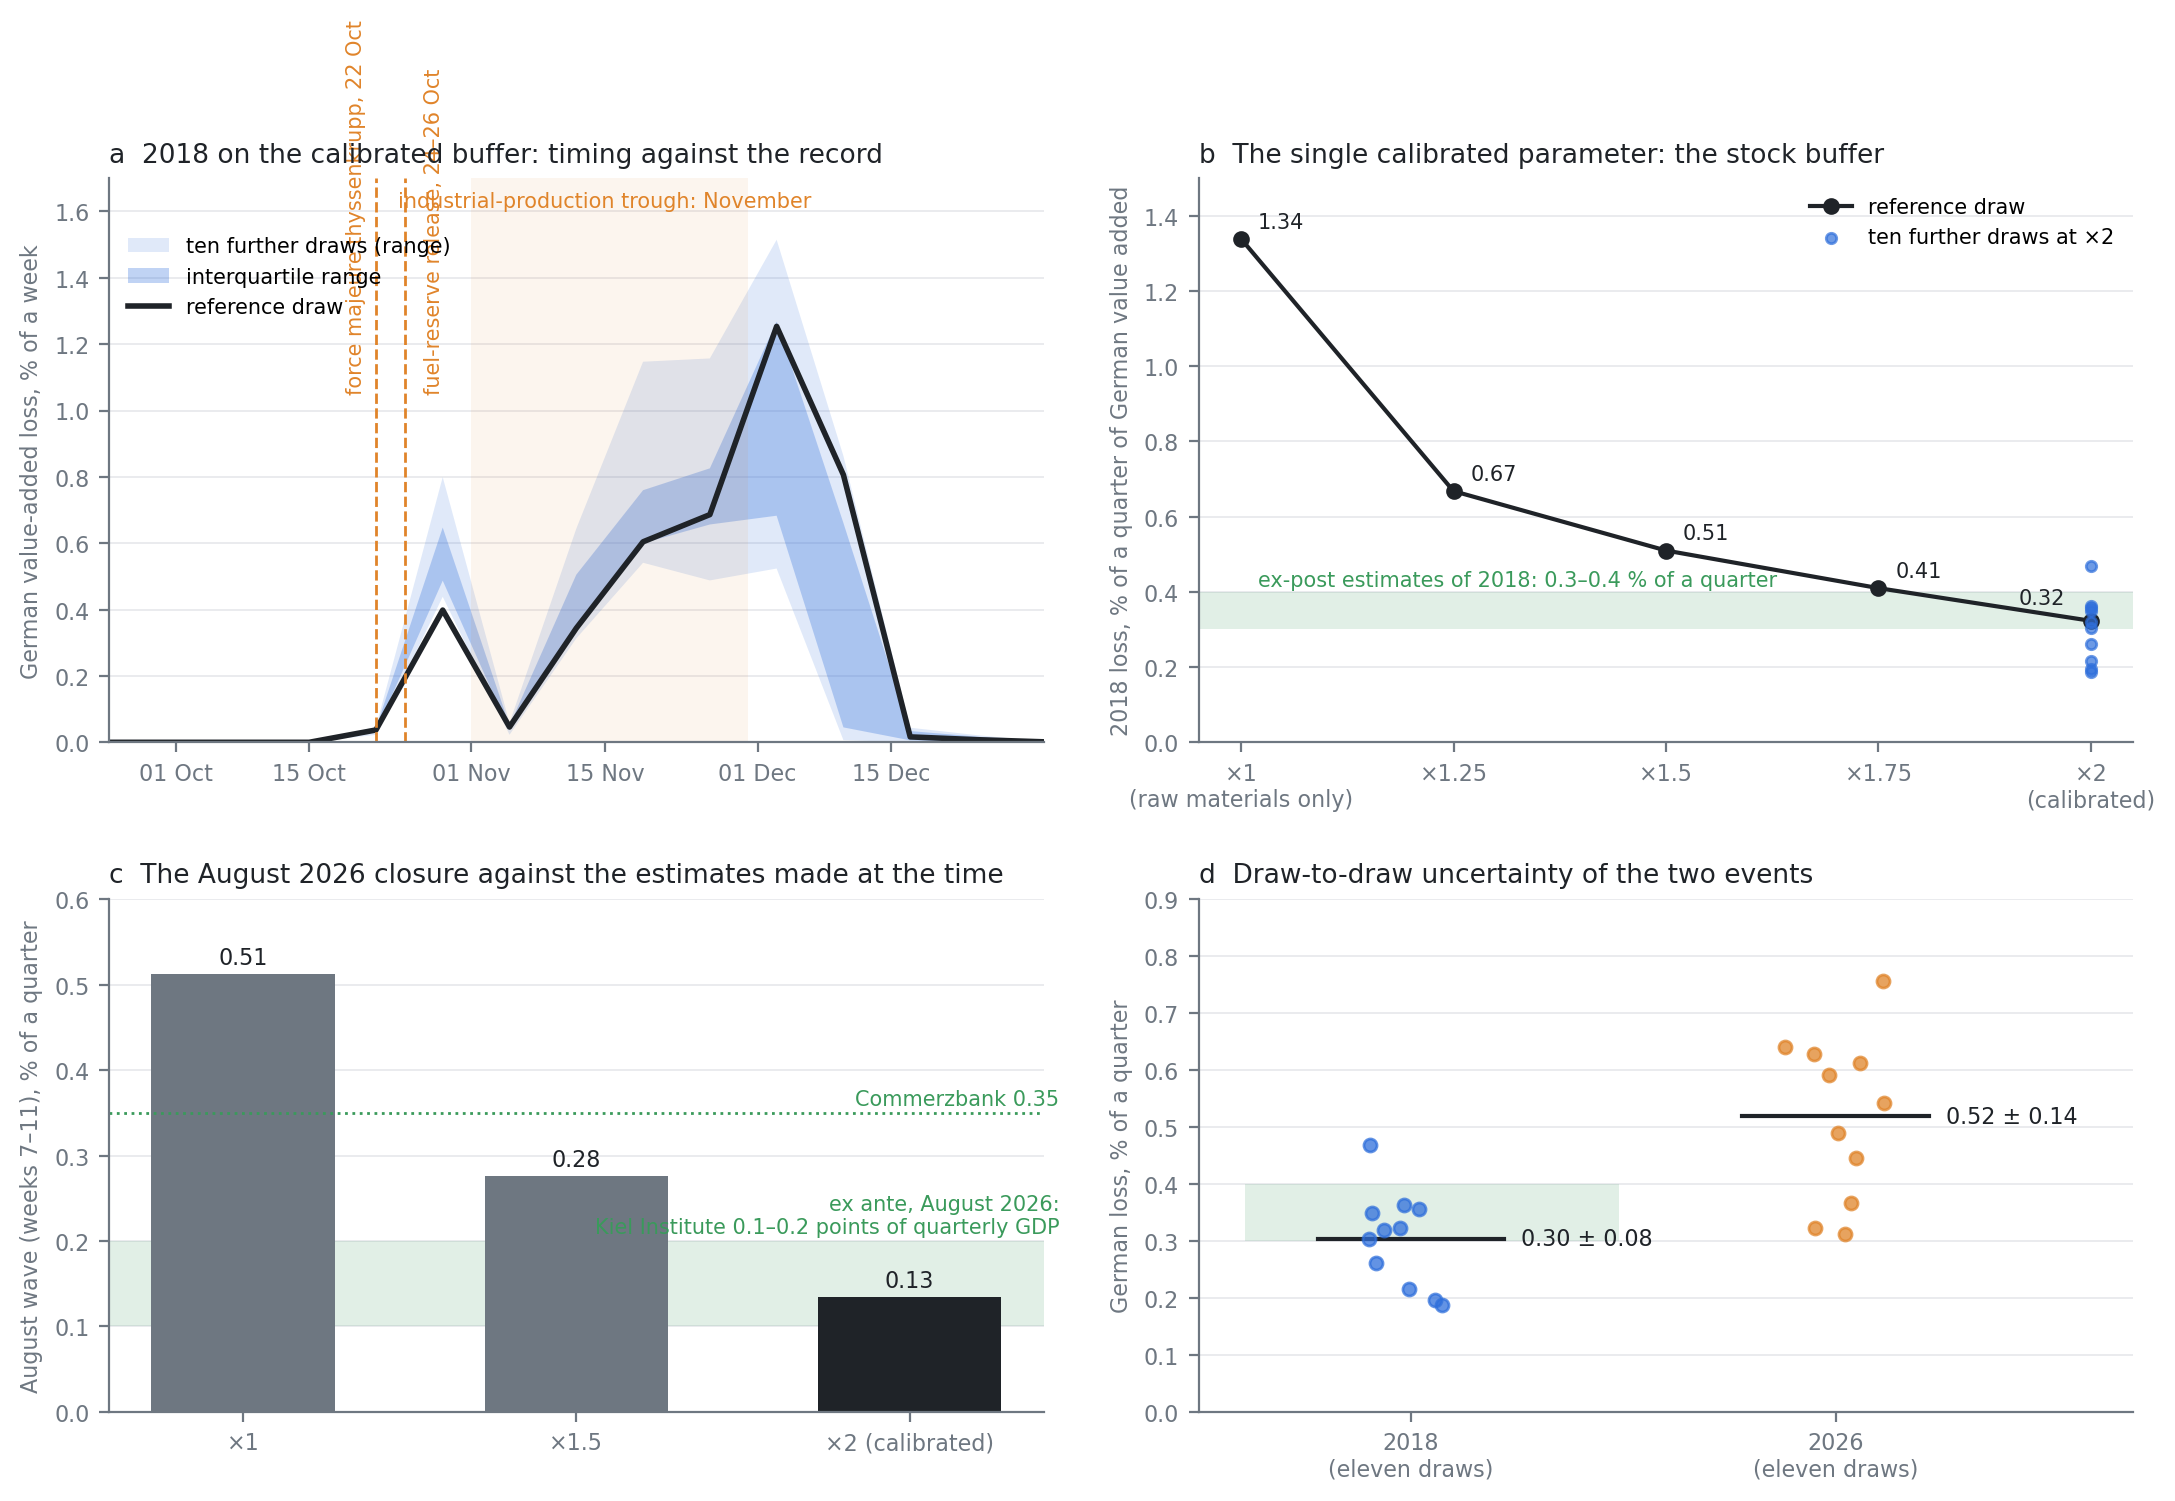
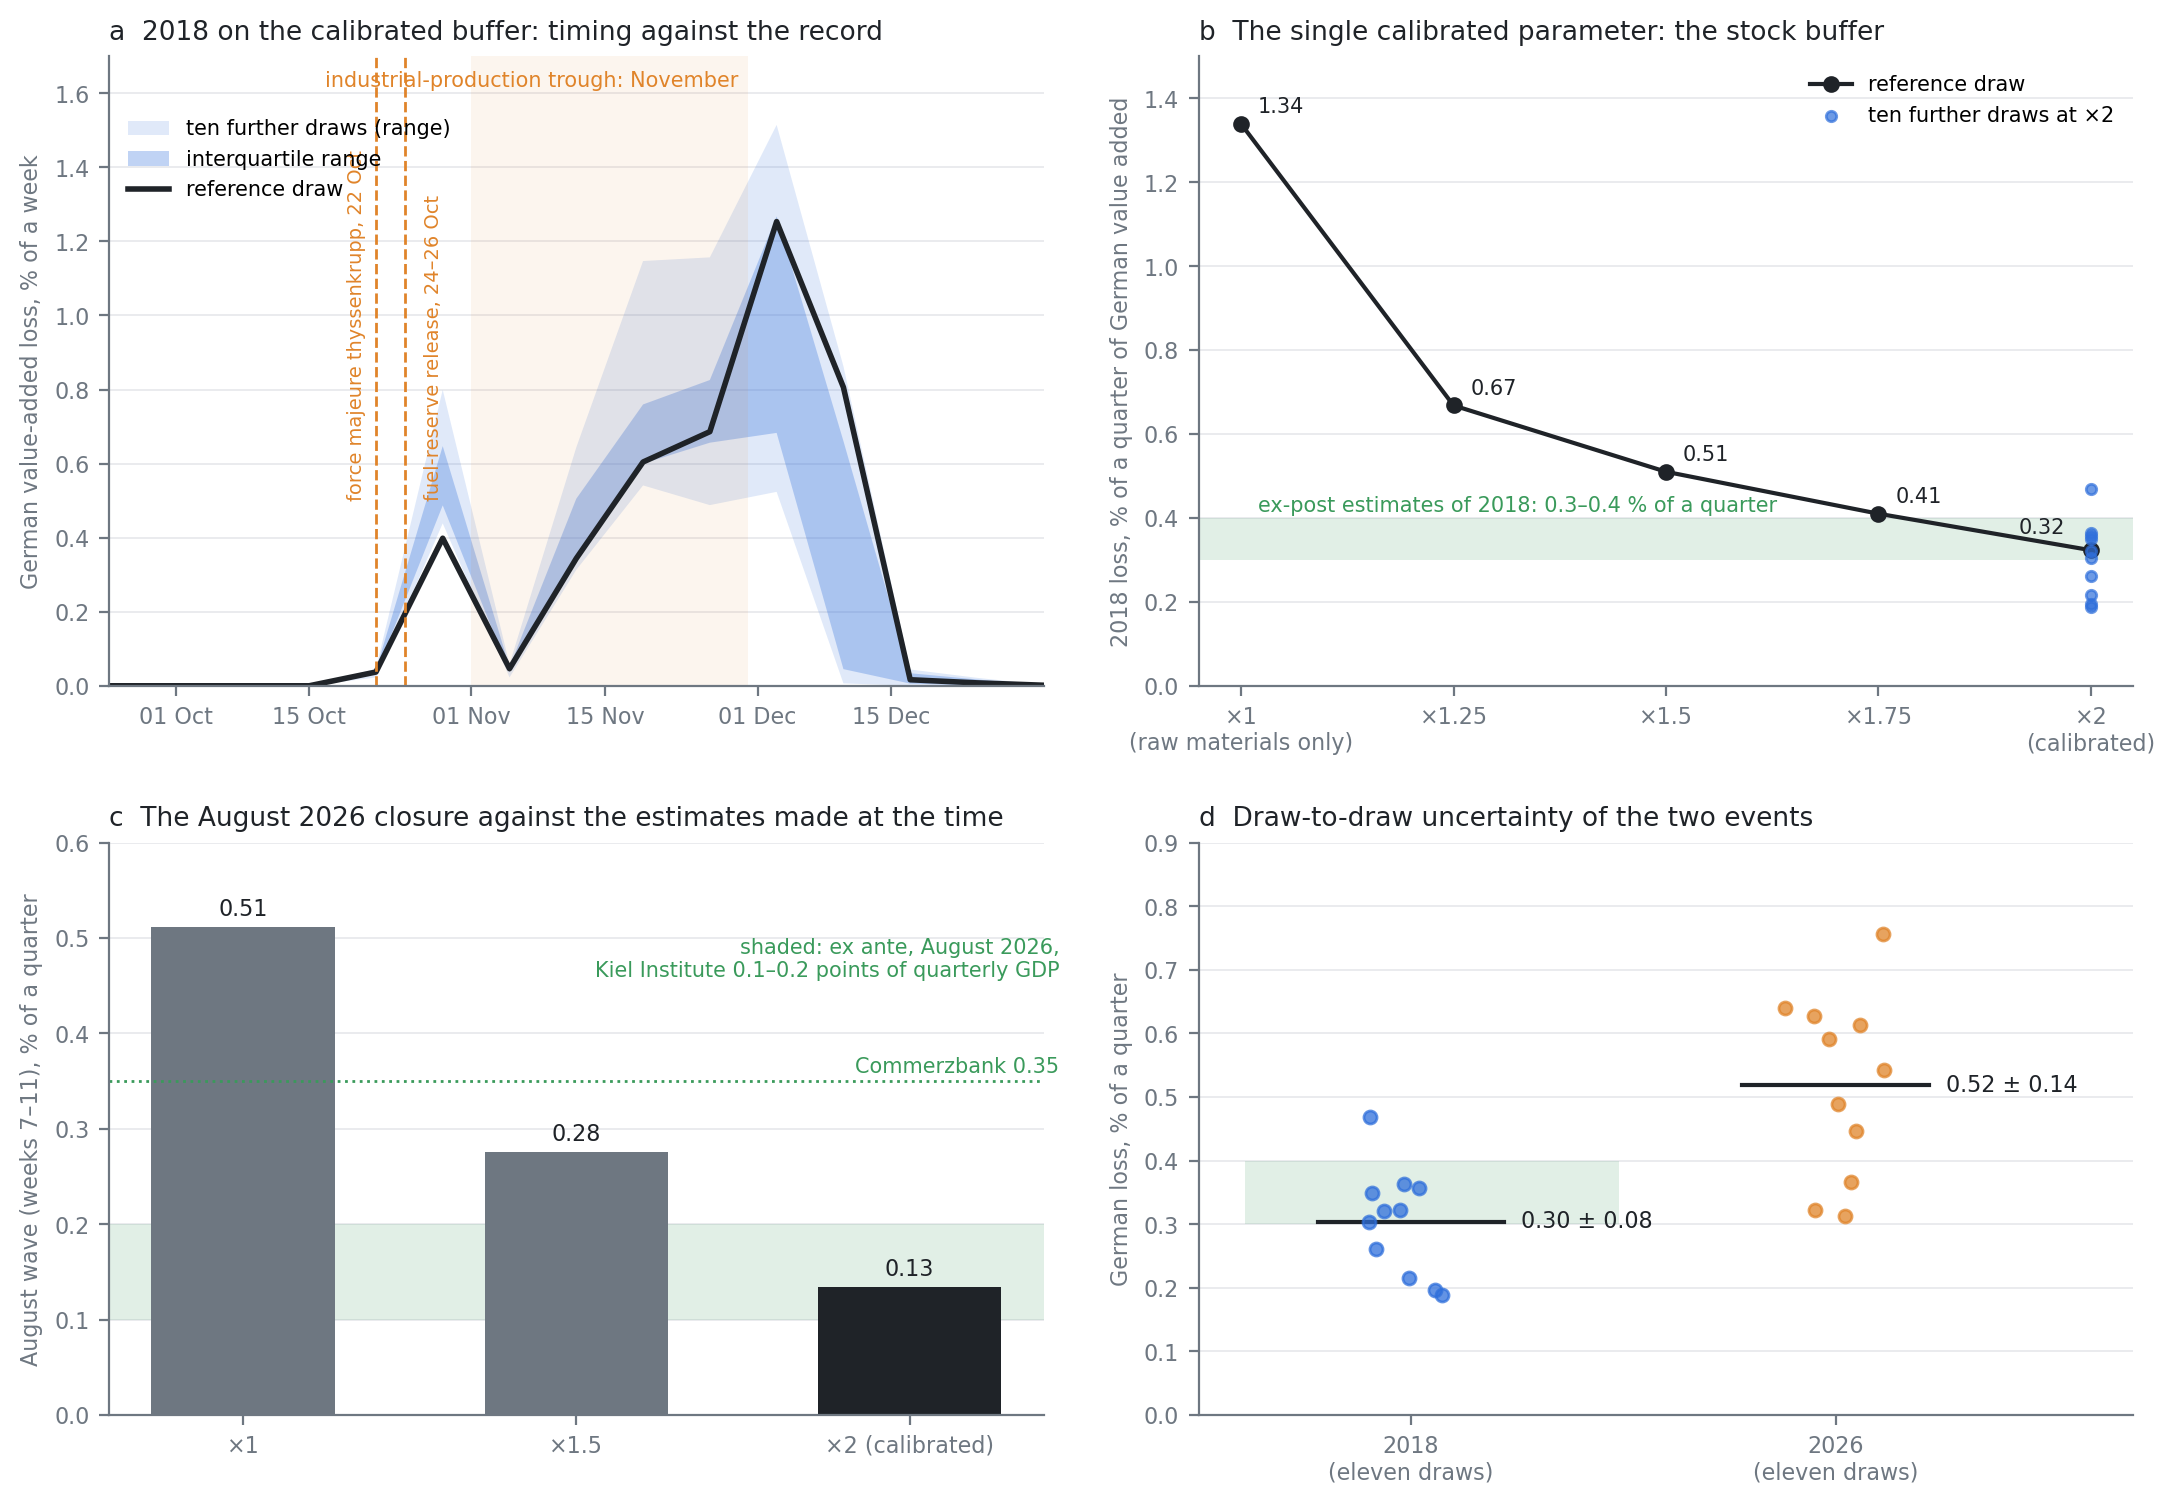
Validation figure: label placement

diff --git a/studies/rhine2026/plots/validation_figure.py b/studies/rhine2026/plots/validation_figure.py
@@ -70,10 +70,10 @@ def main(out: Path):
     ax.set_ylim(0, 1.7)
     for d, txt in [("2018-10-22", "force majeure thyssenkrupp, 22 Oct"), ("2018-10-25", "strategic fuel-reserve release, 24–26 Oct")]:
         x = pd.Timestamp(d); ax.axvline(x, color=ORANGE, linewidth=1, linestyle="--")
-    ax.text(pd.Timestamp("2018-10-21"), 1.05, "force majeure thyssenkrupp, 22 Oct", color=ORANGE, fontsize=7.5, ha="right", va="bottom", rotation=90)
-    ax.text(pd.Timestamp("2018-10-27"), 1.05, "fuel-reserve release, 24–26 Oct", color=ORANGE, fontsize=7.5, ha="left", va="bottom", rotation=90)
+    ax.text(pd.Timestamp("2018-10-21"), 0.5, "force majeure thyssenkrupp, 22 Oct", color=ORANGE, fontsize=7, ha="right", va="bottom", rotation=90)
+    ax.text(pd.Timestamp("2018-10-27"), 0.5, "fuel-reserve release, 24–26 Oct", color=ORANGE, fontsize=7, ha="left", va="bottom", rotation=90)
     ax.axvspan(pd.Timestamp("2018-11-01"), pd.Timestamp("2018-11-30"), color=ORANGE, alpha=0.08, linewidth=0)
-    ax.text(pd.Timestamp("2018-11-15"), 1.66, "industrial-production trough: November", color=ORANGE, fontsize=7.5, ha="center", va="top")
+    ax.text(pd.Timestamp("2018-11-29"), 1.66, "industrial-production trough: November", color=ORANGE, fontsize=7.5, ha="right", va="top")
     ax.set_ylabel("German value-added loss, % of a week", color=MUTED, fontsize=8)
     ax.xaxis.set_major_formatter(mdates.DateFormatter("%d %b"))
     ax.set_xlim(pd.Timestamp("2018-09-24"), pd.Timestamp("2018-12-31"))
@@ -103,7 +103,7 @@ def main(out: Path):
     labels = ["×1", "×1.5", "×2 (calibrated)"]
     aug = [0.512, 0.276, 0.134]
     ax.axhspan(0.1, 0.2, color=GREEN, alpha=0.15, linewidth=0)
-    ax.text(2.45, 0.205, "ex ante, August 2026:\nKiel Institute 0.1–0.2 points of quarterly GDP", color=GREEN, fontsize=7.5, ha="right", va="bottom")
+    ax.text(2.45, 0.455, "shaded: ex ante, August 2026,\nKiel Institute 0.1–0.2 points of quarterly GDP", color=GREEN, fontsize=7.5, ha="right", va="bottom")
     ax.axhline(0.35, color=GREEN, linewidth=1, linestyle=":")
     ax.text(2.45, 0.355, "Commerzbank 0.35", color=GREEN, fontsize=7.5, ha="right", va="bottom")
     bars = ax.bar(range(3), aug, color=[MUTED, MUTED, INK], width=0.55)
